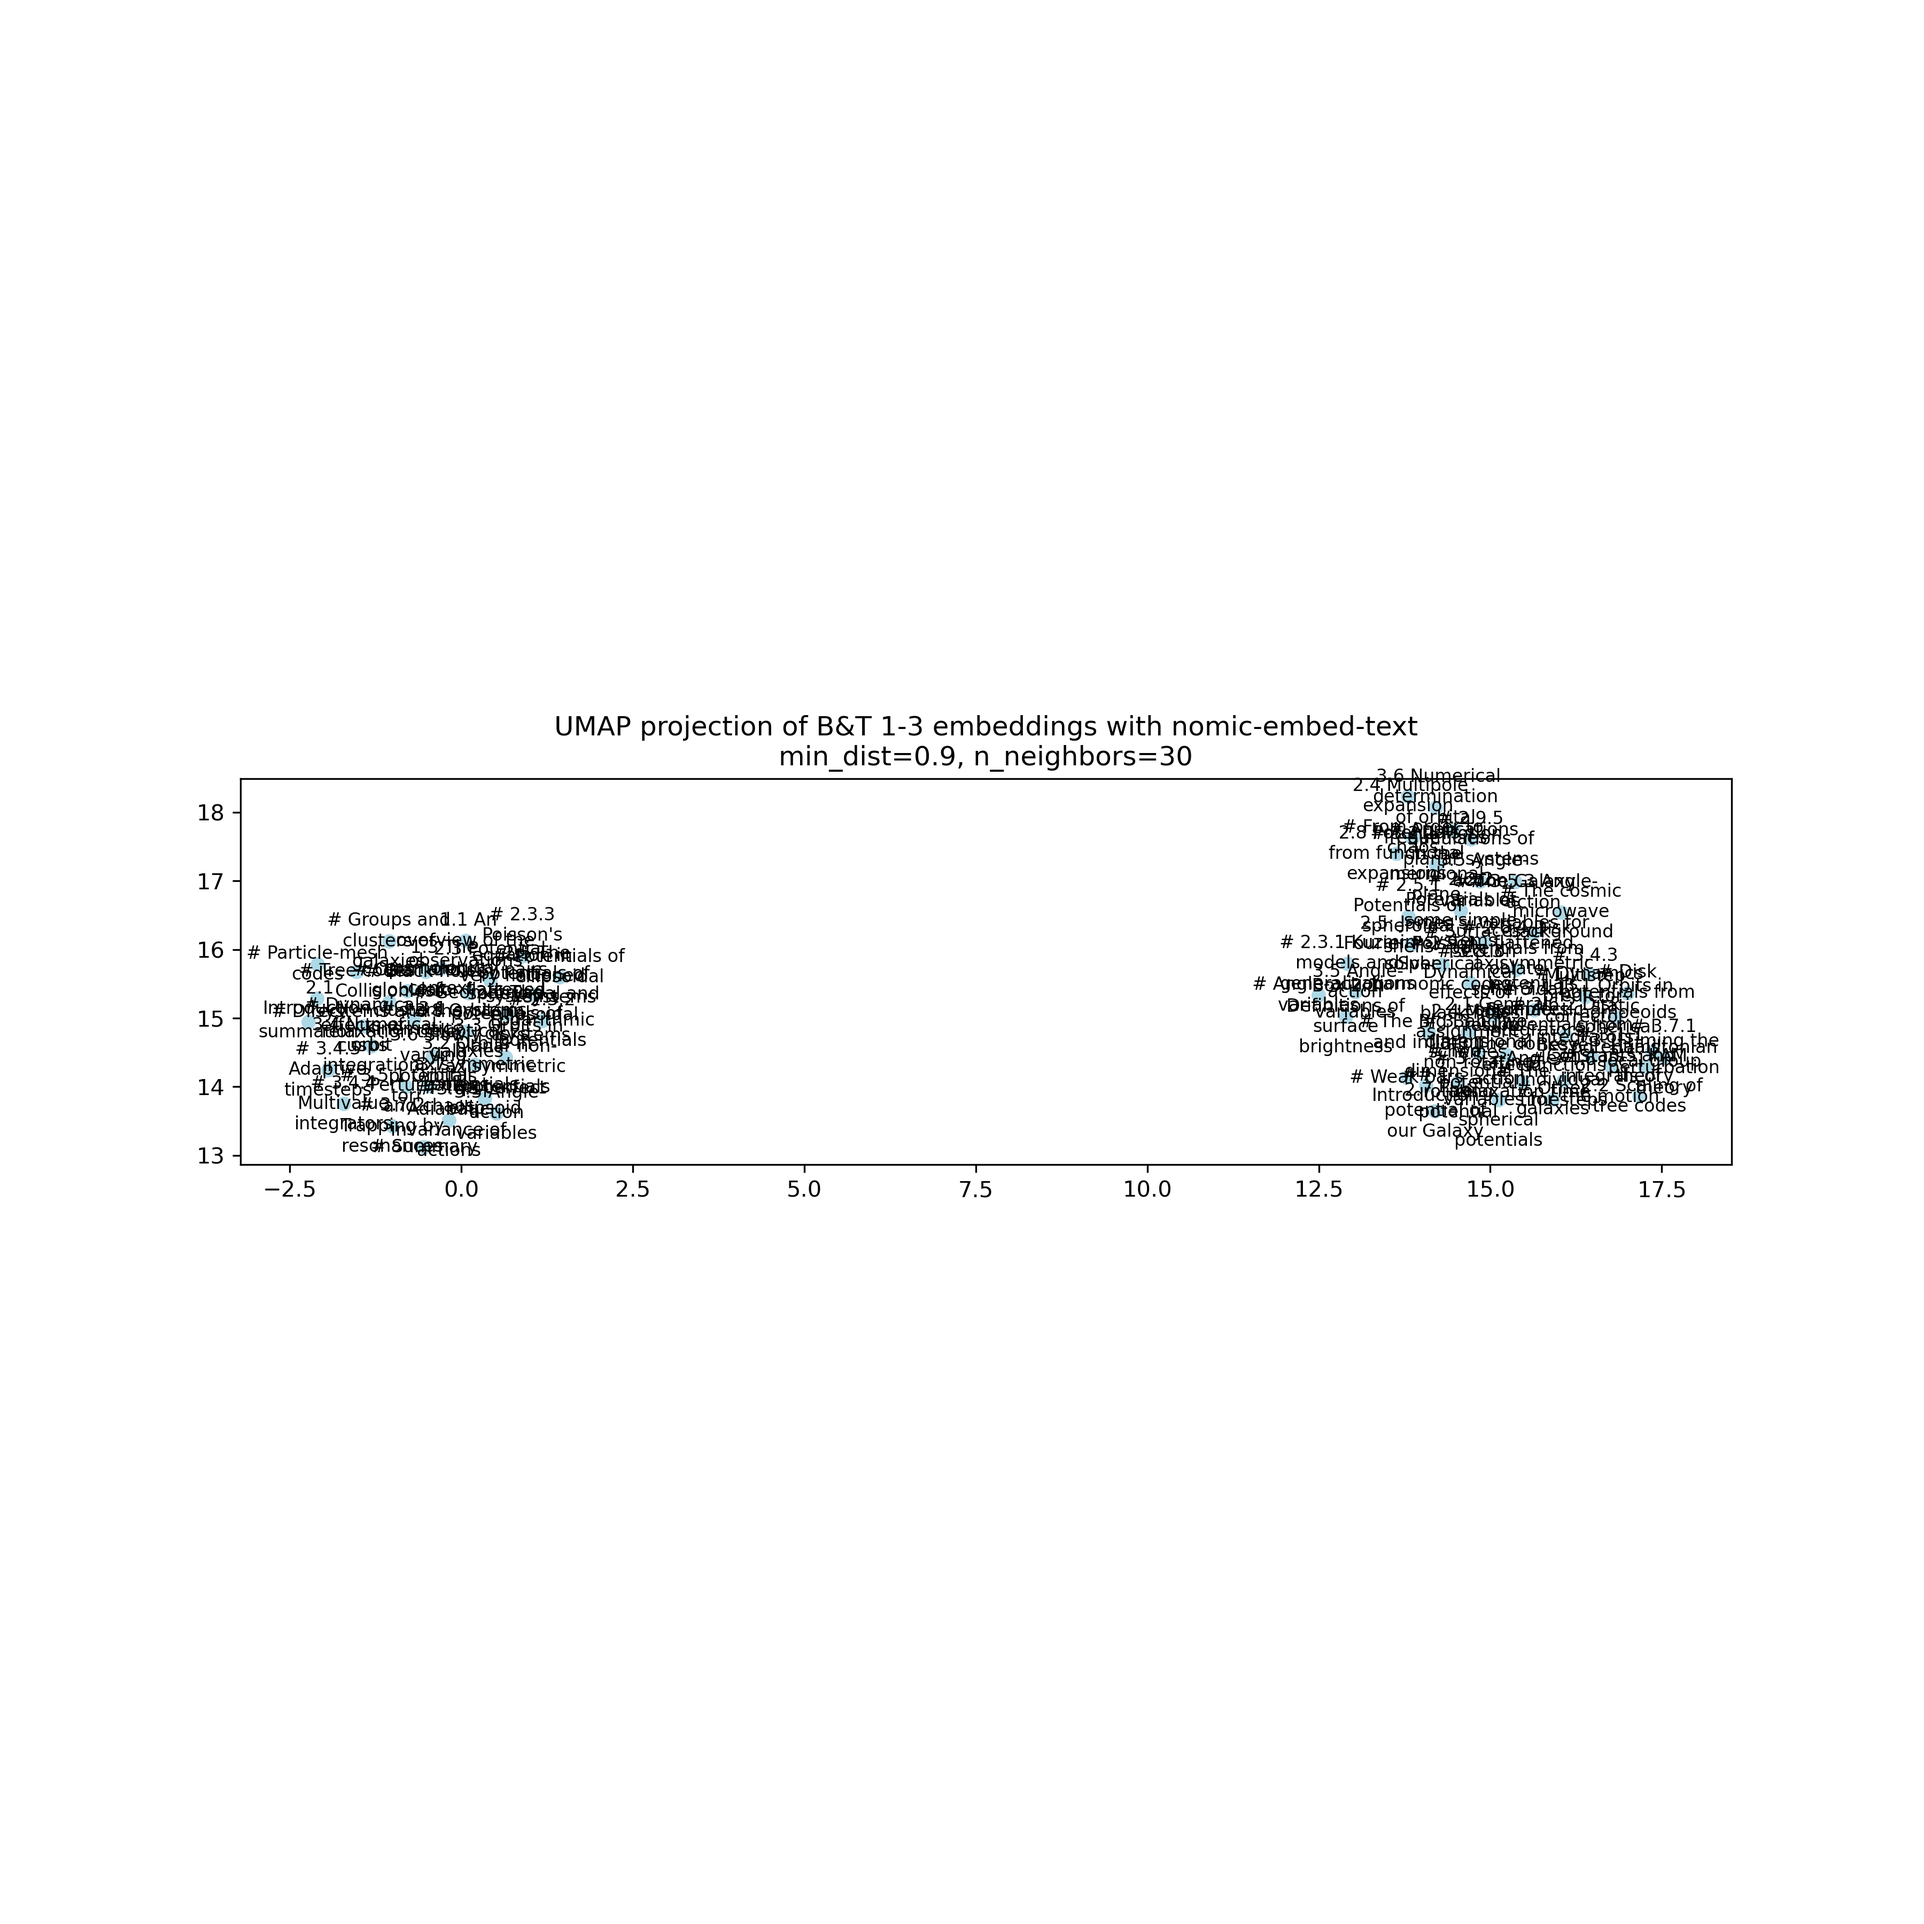
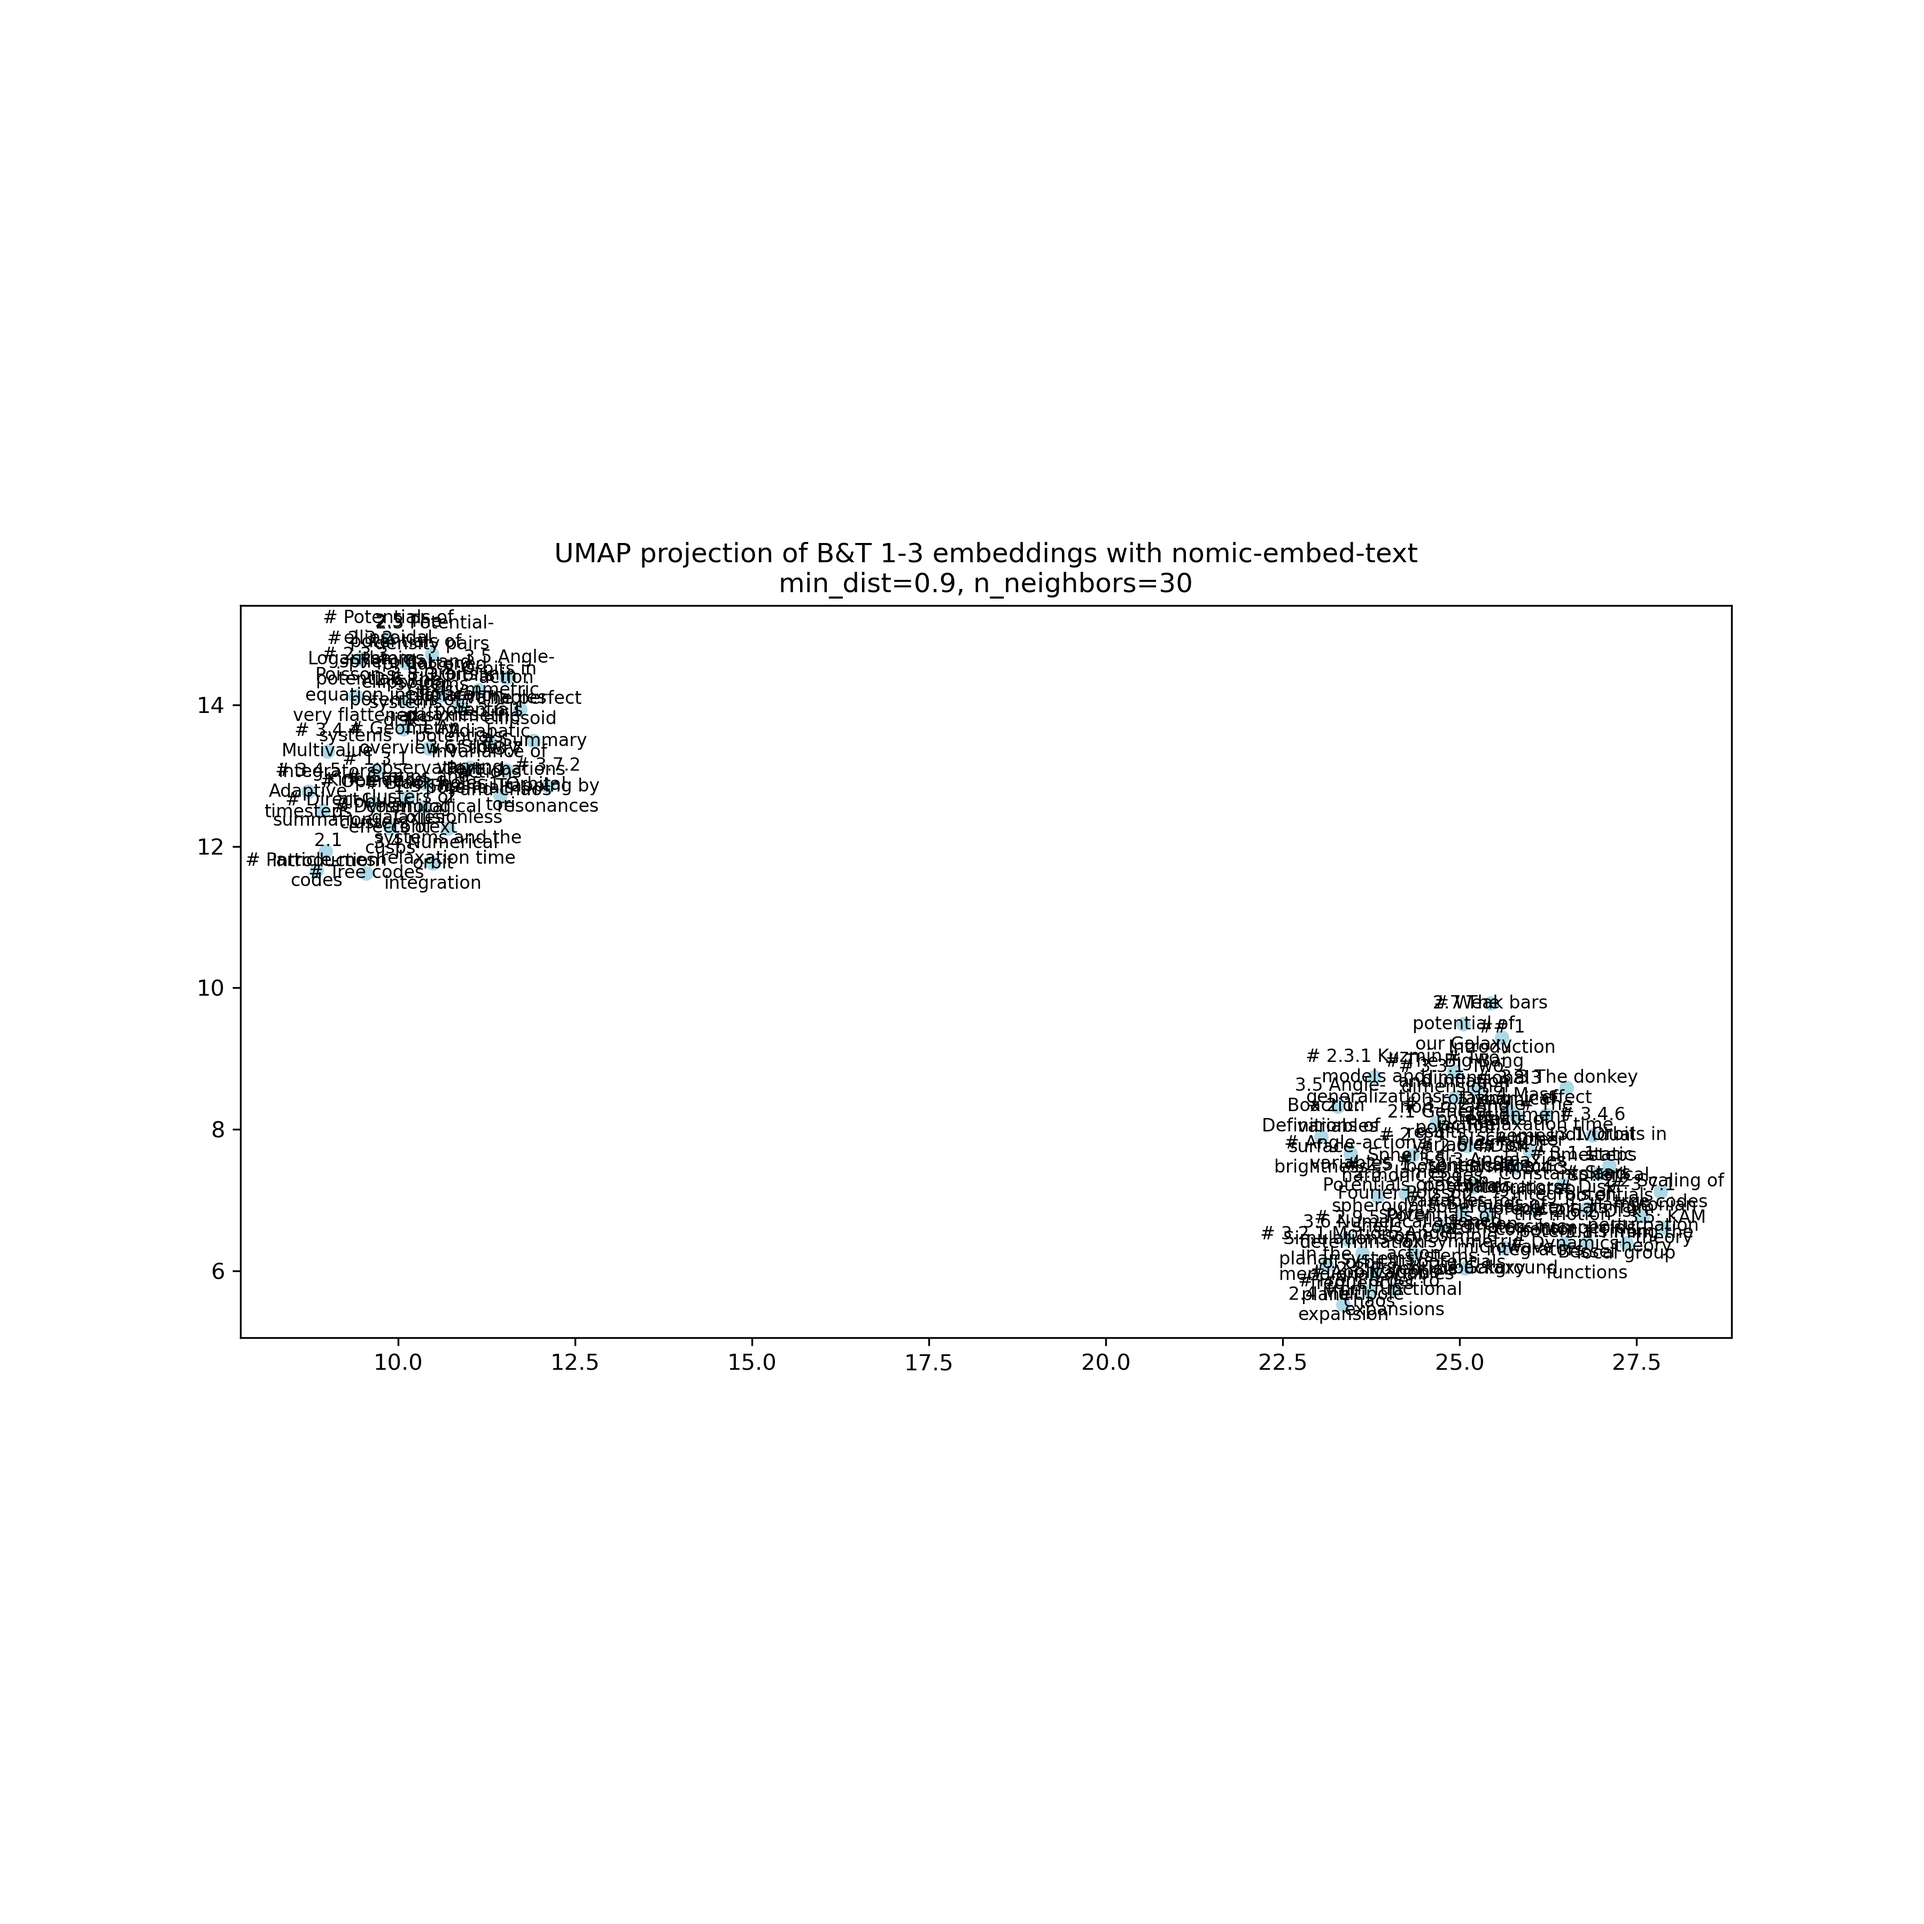
visualise interactive embedding

diff --git a/visualise_embedding.html b/visualise_embedding.html
@@ -1,0 +1,52 @@
+<!DOCTYPE html>
+<html lang="en">
+  <head>
+    <meta charset="utf-8">
+    <title>Bokeh Plot</title>
+    <script type="text/javascript" src="https://cdn.bokeh.org/bokeh/release/bokeh-2.4.3.min.js"></script>
+    <script type="text/javascript">
+        Bokeh.set_log_level("info");
+    </script>
+  </head>
+  <body>
+    <div class="bk-root" id="9b40ae7f-9ed0-4d71-bba9-0021d2b429c0" data-root-id="1003"></div>
+  
+    <script type="application/json" id="1172">
[1 lines of base64/hex data omitted]
+    </script>
+    <script type="text/javascript">
+      (function() {
+        const fn = function() {
+          Bokeh.safely(function() {
+            (function(root) {
+              function embed_document(root) {
+              const docs_json = document.getElementById('1172').textContent;
+              const render_items = [{"docid":"e05d1e29-d7e8-4cde-ad2d-1e11e4c79d7a","root_ids":["1003"],"roots":{"1003":"9b40ae7f-9ed0-4d71-bba9-0021d2b429c0"}}];
+              root.Bokeh.embed.embed_items(docs_json, render_items);
+              }
+              if (root.Bokeh !== undefined) {
+                embed_document(root);
+              } else {
+                let attempts = 0;
+                const timer = setInterval(function(root) {
+                  if (root.Bokeh !== undefined) {
+                    clearInterval(timer);
+                    embed_document(root);
+                  } else {
+                    attempts++;
+                    if (attempts > 100) {
+                      clearInterval(timer);
+                      console.log("Bokeh: ERROR: Unable to run BokehJS code because BokehJS library is missing");
+                    }
+                  }
+                }, 10, root)
+              }
+            })(window);
+          });
+        };
+        if (document.readyState != "loading") fn();
+        else document.addEventListener("DOMContentLoaded", fn);
+      })();
+    </script>
+  </body>
+</html>

diff --git a/visualise_embedding.py b/visualise_embedding.py
@@ -9,6 +9,9 @@ import matplotlib.pyplot as plt
 import string
 import textwrap
 import numpy as np
+from bokeh.plotting import figure, show
+from bokeh.models import ColumnDataSource, HoverTool
+from bokeh.io import output_file
 #from sentence_transformers import SentenceTransformer
 #from sentence_transformers.util import cos_sim
 
@@ -46,7 +49,7 @@ caches_dir = '/home/hgolawska/llm_summer_project/caches'
 filename = './work/pdf_to_txt/output/cleaned/Binney_and_Tremaine_1-3_no_rrp.mmd'
 
 plot_title = f'UMAP projection of B&T 1-3 embeddings with nomic-embed-text\nmin_dist={min_dist}, n_neighbors={n_neighbors}'
-outfile_title = f'./work/plots/umap_1-3_no_rrp_four_hashtags.png'
+outfile_title = f'./work/plots/umap_1-3_no_rrp_four_hashtags_laptop.png'
 
 #model = SentenceTransformer(embedding_model, cache_folder=caches_dir, local_files_only=True)
 #model = 'mxbai-embed-large'
@@ -105,7 +108,6 @@ print('flat embedding shape:', flat_embeddings.embedding_.shape)
 
 fig, ax = plt.subplots(figsize=(12,12))
 ax.scatter(flat_embeddings.embedding_[:, 0], flat_embeddings.embedding_[:, 1], color='lightblue', alpha=1, s=30, edgecolors=None)
-ax.set_aspect('equal')
 # add a label for one in 10 points
 for i in range(0, flat_embeddings.embedding_.shape[0]):
     # Wrap the label to a maximum width (e.g., 15 characters per line)
@@ -118,8 +120,27 @@ for i in range(0, flat_embeddings.embedding_.shape[0]):
             horizontalalignment='center',
             verticalalignment='center',
            )
+ax.set_aspect('equal')
+#plt.gca().set_aspect('equal')
 plt.title(plot_title)
 plt.savefig(outfile_title, dpi=300)
+plt.show()
+
+
+# interactive plot using bokeh
+source = ColumnDataSource(data=dict(
+    x=flat_embeddings.embedding_[:, 0], 
+    y=flat_embeddings.embedding_[:, 1], 
+    label=labels))
+
+p = figure(title=plot_title, tools="pan,wheel_zoom,box_zoom,reset,save", width=800, height=800)
+scatter = p.scatter('x', 'y', source=source, size=10)
+hover = HoverTool(tooltips = [("", "@label")])
+p.add_tools(hover)
+#show(p)
+
+output_file("interactive_scatter.html")
+
 
 print('maximum number of words in a chunk:', max(words))
 print('average number of words in a chunk:', sum(words) / len(words))
